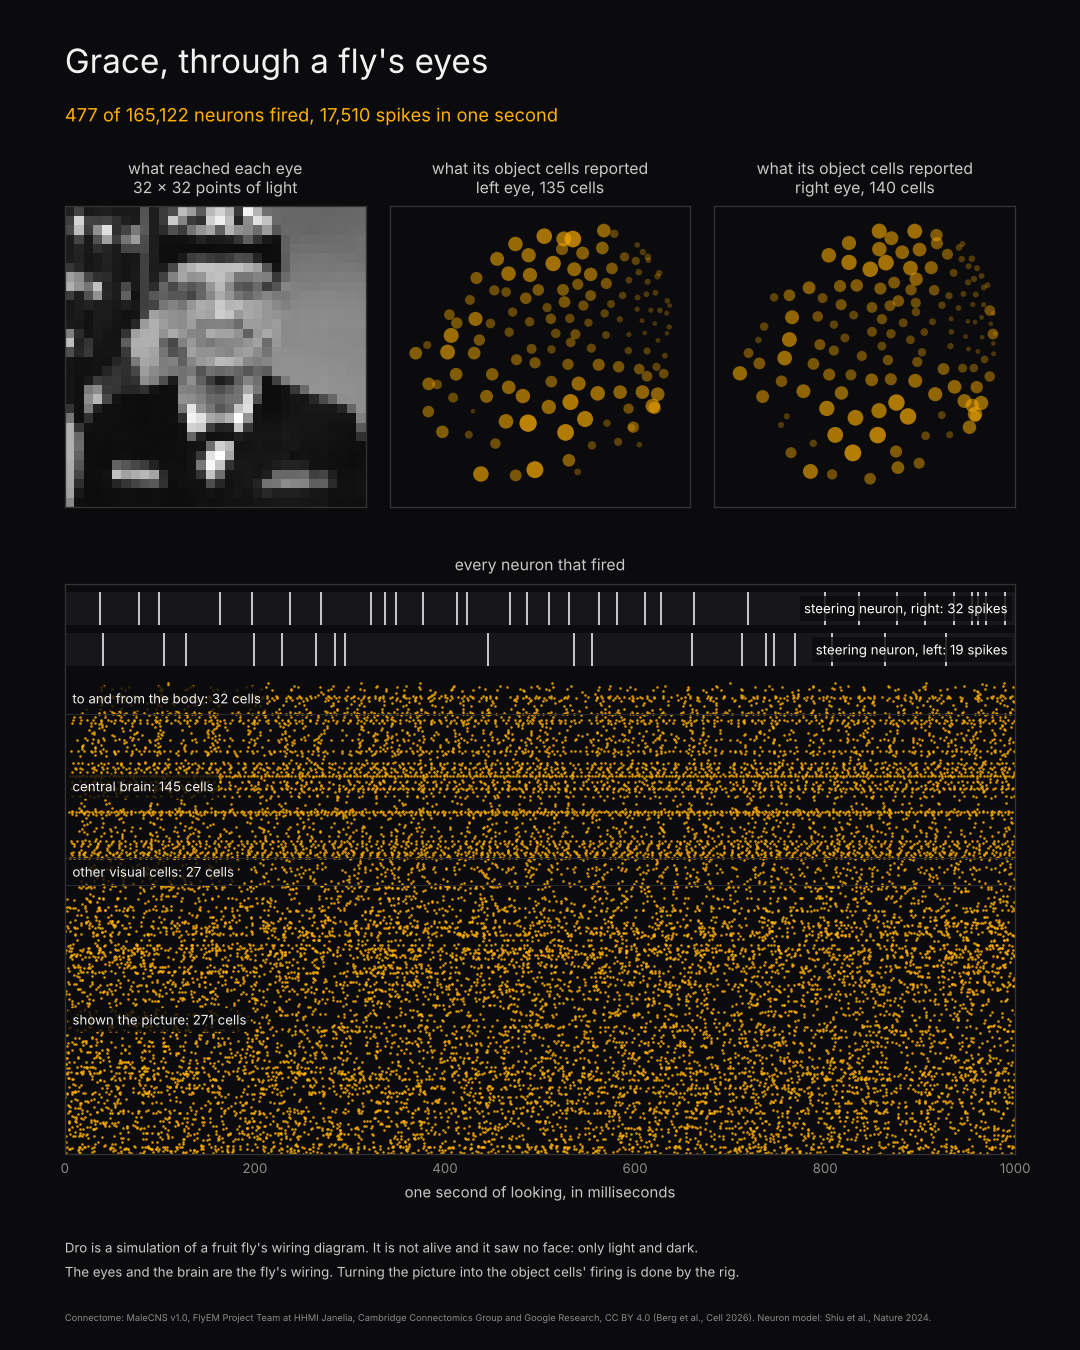
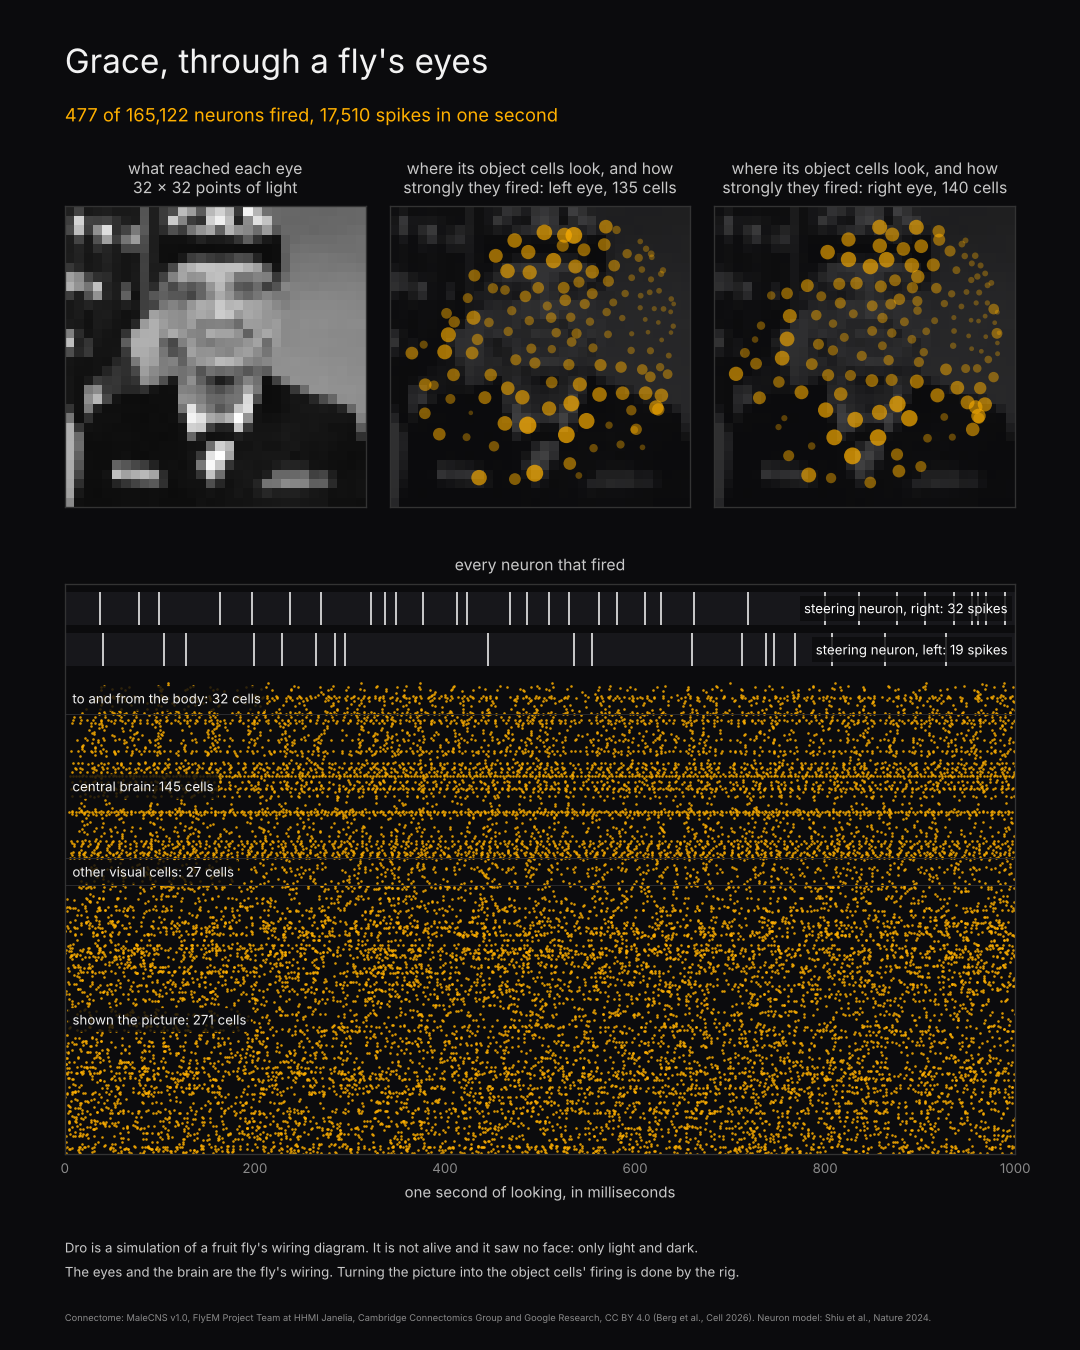
Show on the poster where each object cell looks
Draw a faint copy of the photo under the dots of the object-detecting
cells, so that each dot can be seen on the spot of the picture its cell
looks at.

Claude-Session: https://claude.ai/code/session_01G1xFALjkzKtP8PktJDQT78

diff --git a/dro/portrait.py b/dro/portrait.py
@@ -9,8 +9,9 @@ brain for one second. The poster shows, from top to bottom:
 
 1. What reached the eyes: the photo as 32 x 32 points of light.
 2. What the object-detecting cells (LC10a) reported, one dot per cell at
-   the spot where that cell looks, larger where the picture has more
-   contrast. This step is the rig's stand-in for the optic lobe.
+   the spot where that cell looks, drawn over a faint copy of the photo and
+   larger where the picture has more contrast. This step is the rig's
+   stand-in for the optic lobe.
 3. Every neuron that fired during the second, and the two steering neurons.
 
 The fly sees no face. It gets light and dark, and the poster says so.
@@ -110,11 +111,13 @@ def save_poster(graph: Graph, picture: np.ndarray, seen: dict, path: Path, name:
         axis = figure.add_subplot(grid[0, column])
         rows, cols = view_centres(seen["eye"][side])
         strength = seen["contrast"][side]
-        axis.scatter(cols, rows, s=6 + 150 * strength, c=AMBER, alpha=0.25 + 0.7 * strength, linewidths=0)
-        axis.set_xlim(-1, small)
-        axis.set_ylim(small, -1)
+        # The picture, faint, under the cells: each dot sits on the spot its cell looks at.
+        axis.imshow(patches, cmap="gray", vmin=0, vmax=255, interpolation="nearest", alpha=0.22)
+        axis.scatter(cols, rows, s=6 + 150 * strength, c=AMBER, alpha=0.3 + 0.65 * strength, linewidths=0)
+        axis.set_xlim(-0.5, small - 0.5)
+        axis.set_ylim(small - 0.5, -0.5)
         axis.set_aspect("equal")
-        frame(axis, f"what its object cells reported\n{word} eye, {strength.size} cells")
+        frame(axis, f"where its object cells look, and how\nstrongly they fired: {word} eye, {strength.size} cells")
 
     result = seen["result"]
     fired = np.zeros(graph.n, dtype=bool)

diff --git a/README.md b/README.md
@@ -271,7 +271,8 @@ photograph of Grace Hopper).
 The photo is cropped to a square and shown to both eyes for one second. The
 poster shows what reached the eyes (32 x 32 points of light), what the
 object-detecting cells reported (one dot per LC10a cell, at the spot where
-that cell looks, larger where the picture has more contrast), and every
+that cell looks, over a faint copy of the photo, larger where the picture
+has more contrast), and every
 neuron that fired, with the two steering neurons on top. The same photo
 always gives the same poster. The fly sees no face, only light and dark,
 and the poster says so.
